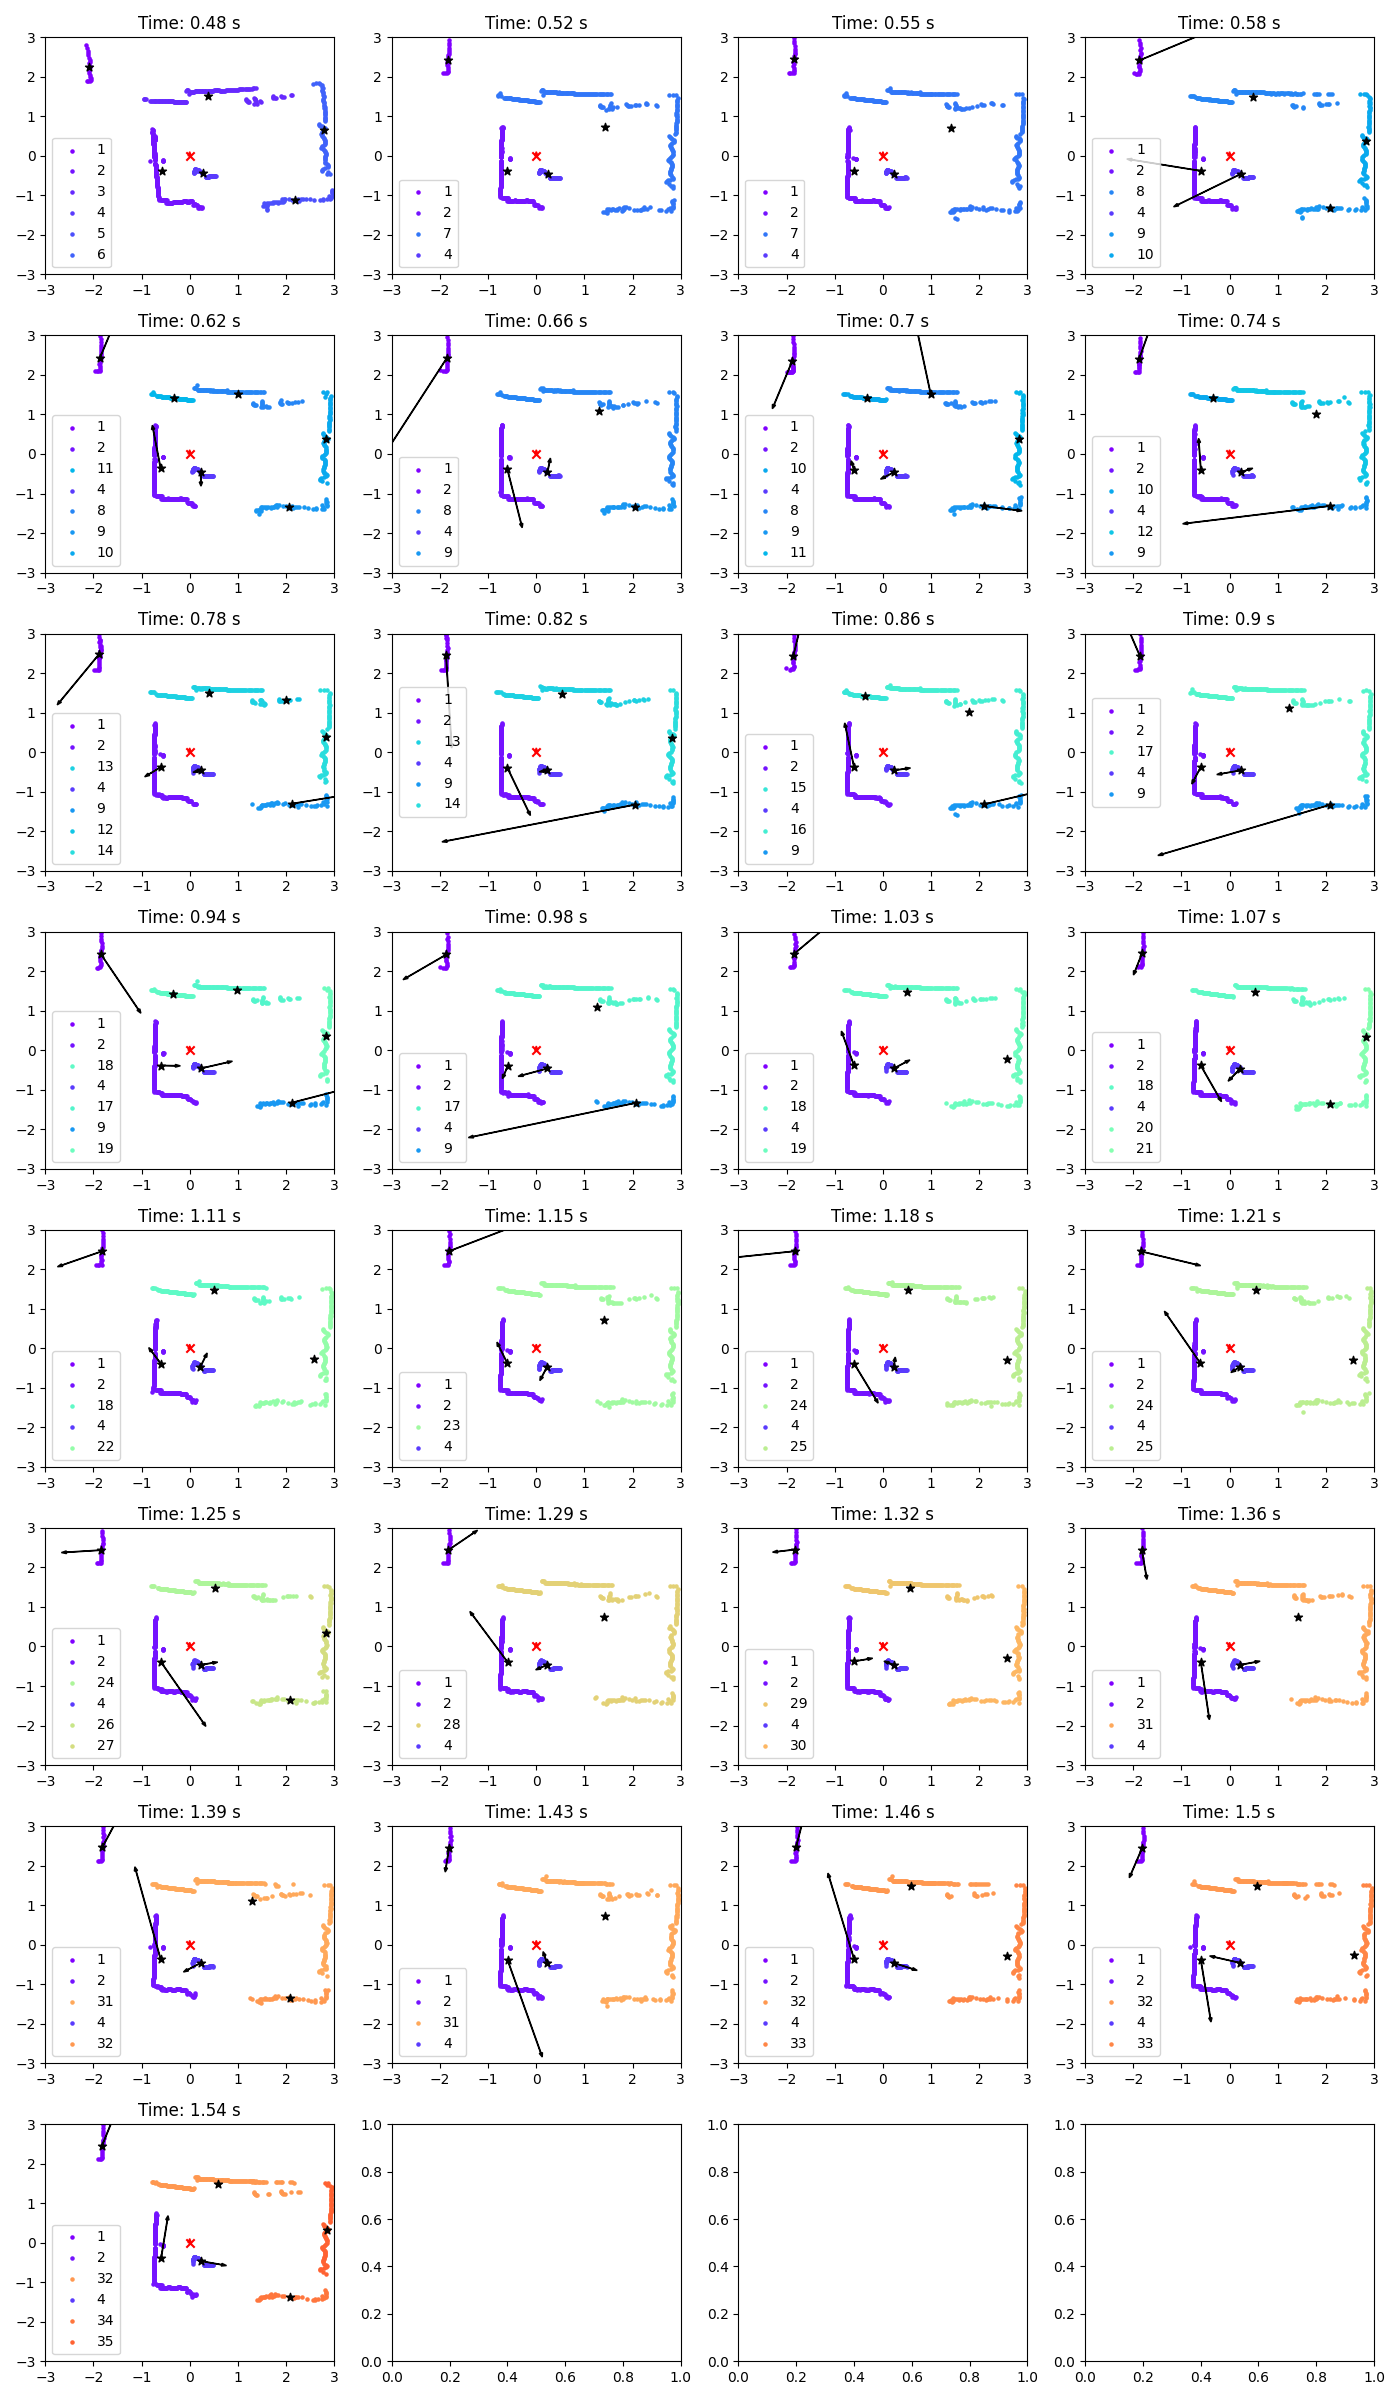
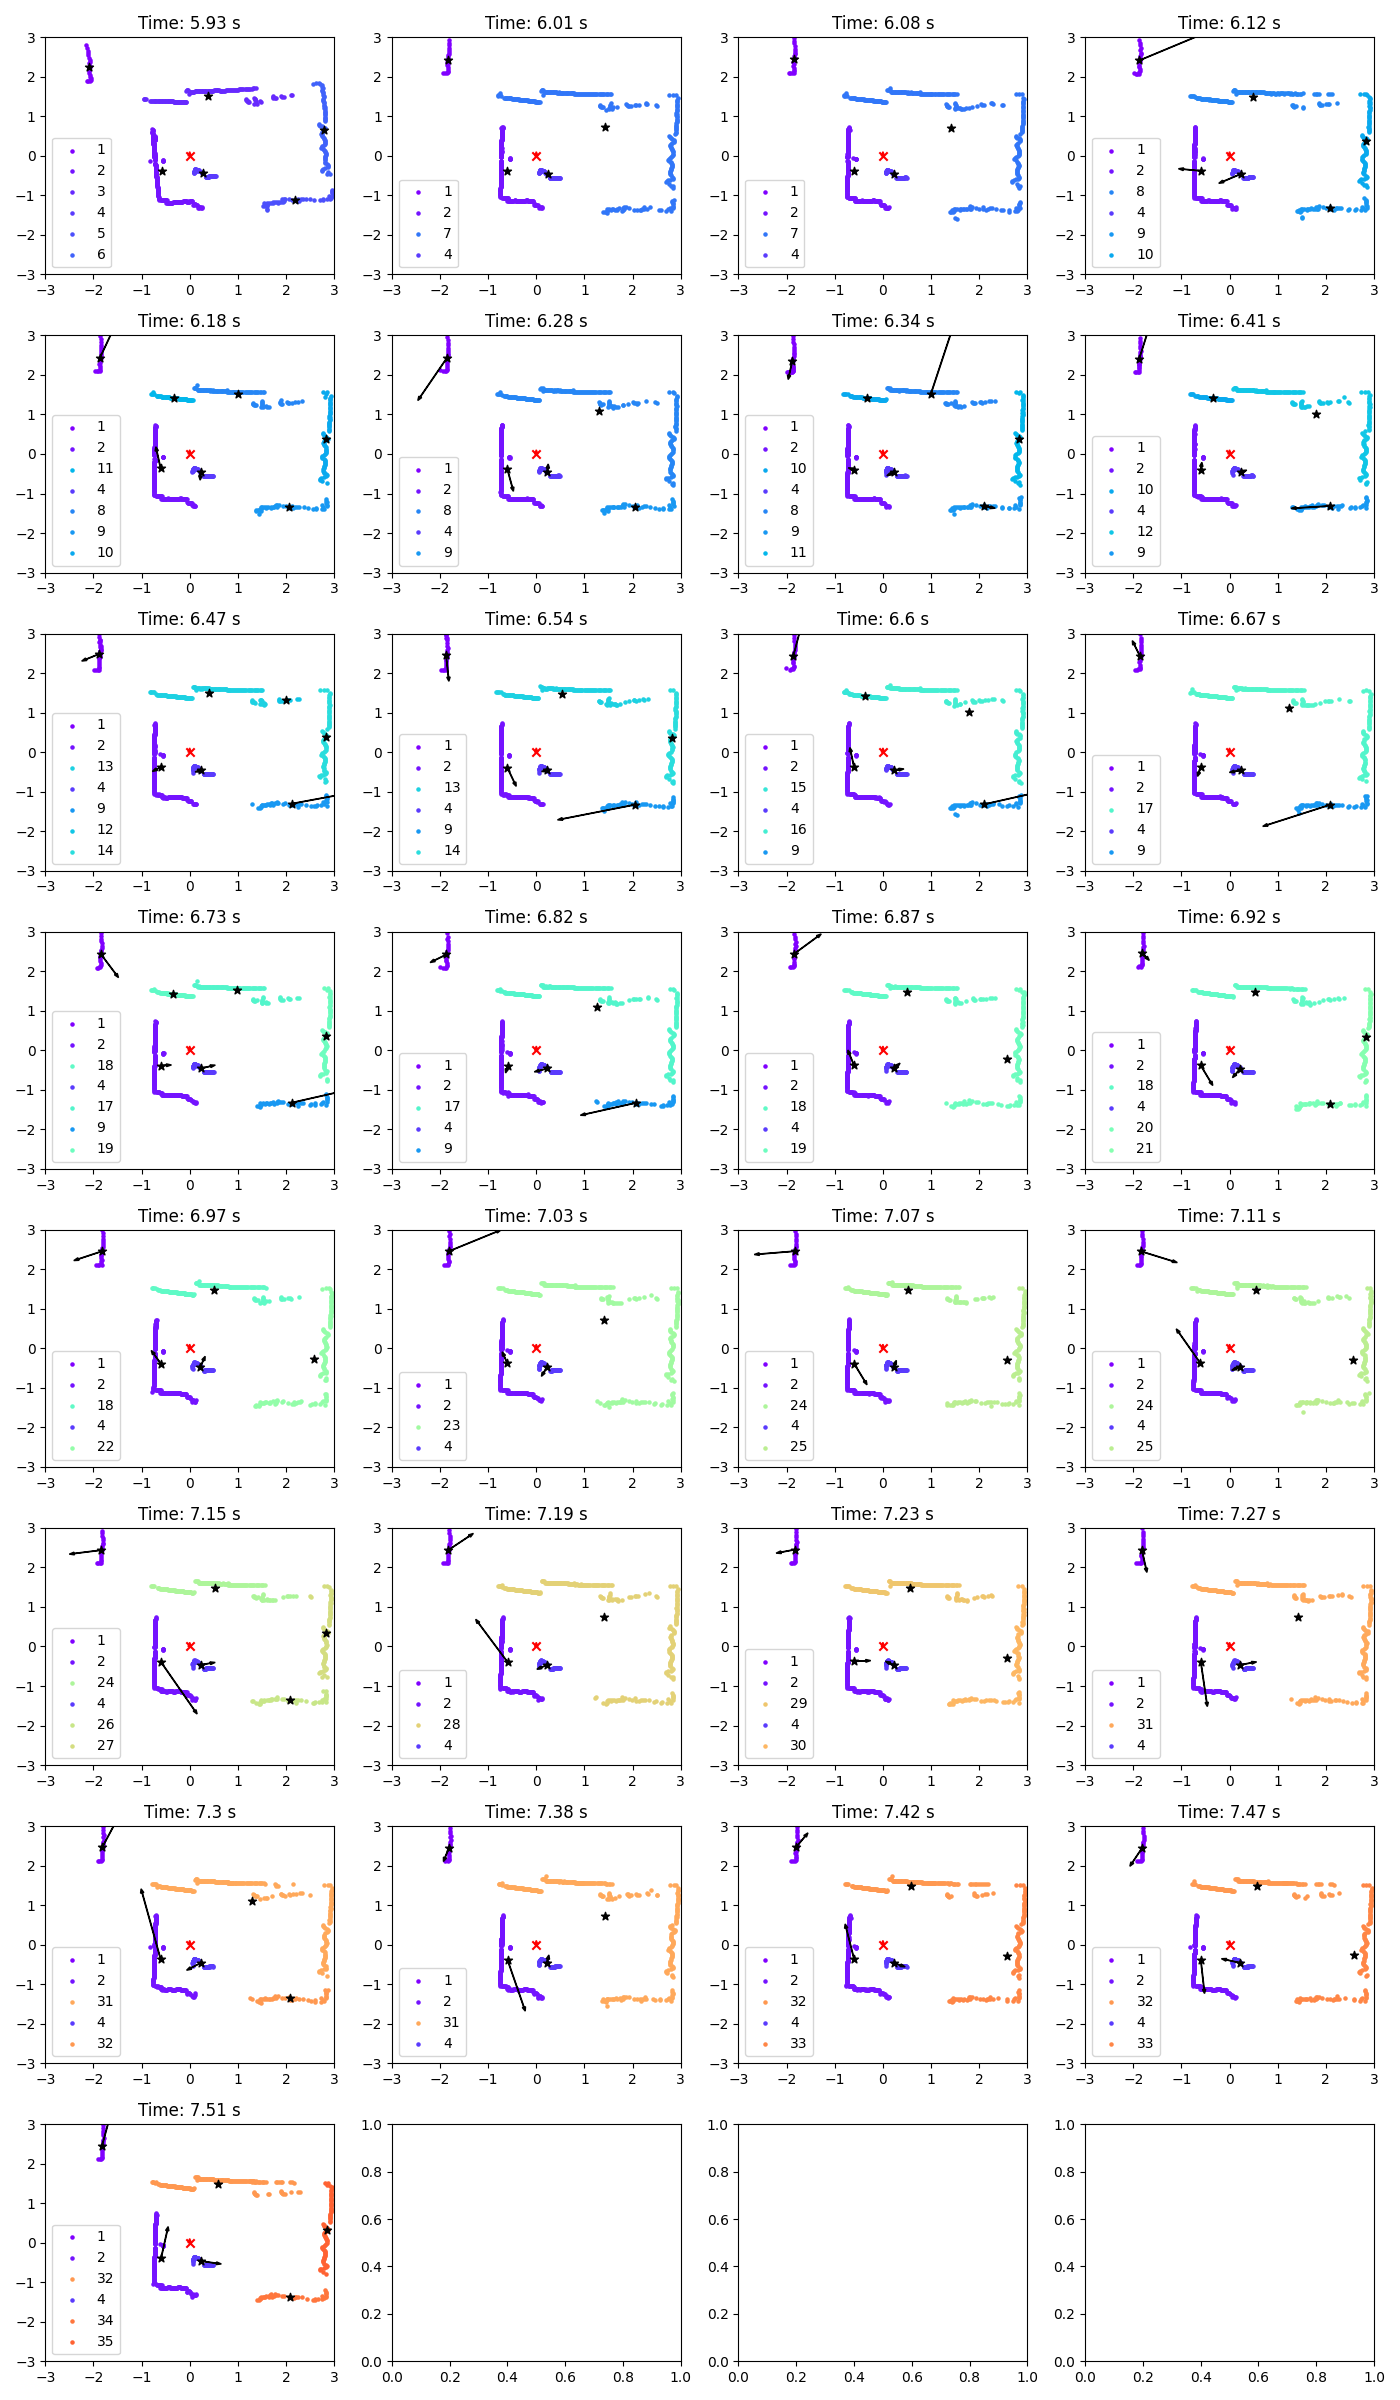
added speed comparison in TTS
- initialization TTS message
- dict of comparable speed intervals
- reoriented IMU onto Pi casing, adjusted velocity directions

Changed region(s): [[0.3071, 0.2812, 0.3379, 0.3438], [0.7986, 0.3125, 0.8293, 0.3438], [0.645, 0.125, 0.6757, 0.1562]]

diff --git a/main.py b/main.py
@@ -59,6 +59,17 @@ def LagrangeInterpolate(pointList, x):
 STATE = Enum('STATE',['HEADER', 'VER_LEN','DATA'])
 POINT = IntEnum('POINT',['DISTANCE', 'INTENSITY', 'ANGLE', 'TIME'], start=0)
 
+SPEEDS = {
+    0: "strolling person",
+    1: "walking person",
+    2: "running person",
+    5: "biking person",
+    9: "approaching car",
+    13: "driving car",
+    22: "speeding car"
+}
+SPEED_KEYS = reversed(SPEEDS.keys())
+
 GRID_SIZE = 30
 COMPONENT_THRESH = 5
 MAX_RANGE = 3
@@ -69,6 +80,9 @@ VEL_THRESH = 0.5
 HEADER_BYTE = 0x54
 VER_BYTE = 0x2C
 START_TIME = time.time()
+
+tts_engine.say('Welcome to OwlEyes. Booting OwlEyes version 1.0. Please stand by.')
+tts_engine.runAndWait()
 
 if DEBUG:
     DATA_LENGTH = 30
@@ -202,9 +216,8 @@ def algorithm(frame):
                     v_y += RAW_VEL[frame_count][1]
                     axis[frame_count // 4, frame_count % 4].arrow(points_x[3][1], points_y[3][1], v_x, v_y, color='black', width=0.01, head_width=0.07)
                 else:
-                    v_x += vel_y
-                    v_y += vel_x
-                
+                    v_x -= vel_y
+                    v_y -= vel_x
                 current_vel.append((i[0], v_x, v_y))
                 if len(prev_vel) == 3:
                     if i[0] in [j[0] for j in prev_vel[0]] and i[0] in [j[0] for j in prev_vel[1]] and i[0] in [j[0] for j in prev_vel[2]]:
@@ -218,10 +231,15 @@ def algorithm(frame):
                             clock_time = round(((450 - round((math.degrees(math.atan2(i[2], i[1])) + 360) % 360)) % 360)/30)
                             if clock_time == 0:
                                 clock_time = 12
+                            raw_speed = round((v_x ** 2 + v_y ** 2) ** 0.5, 2)
                             output_speed = round((v_x ** 2 + v_y ** 2) ** 0.5, 2)
                             output_direction = round((math.degrees(math.atan2(v_y, v_x)) + 360) % 360)
-                            print(f'Time {round(current_frame[0], 2)} s - object {i[0]} @ {clock_time}:00, {output_speed} m/s @ {output_direction}°')
-                            tts_engine.say(f'{clock_time} o\'clock, {output_speed} meters per second at {output_direction} degrees')
+                            for key in SPEED_KEYS:
+                                if output_speed >= key:
+                                    output_speed = key
+                                    break
+                            print(f'Time {round(current_frame[0], 2)} s - object {i[0]} @ {clock_time}:00, {SPEEDS[output_speed]} ({raw_speed} m/s) @ {output_direction}°')
+                            tts_engine.say(f'{clock_time} o\'clock, {SPEEDS[output_speed]} at {output_direction} degrees')
                             tts_engine.runAndWait()
         prev_vel = [current_vel] + prev_vel[:2]
 
